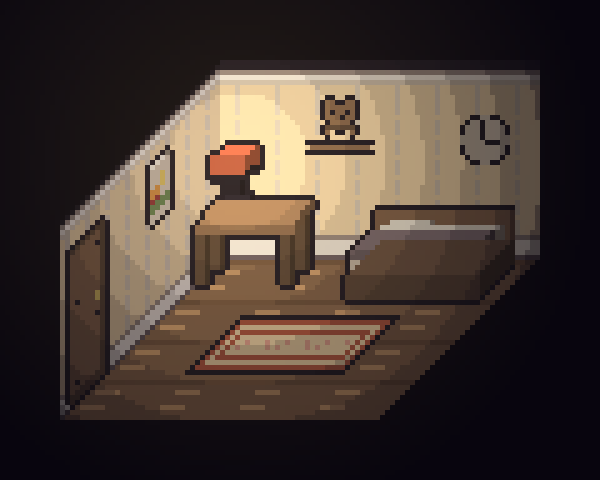
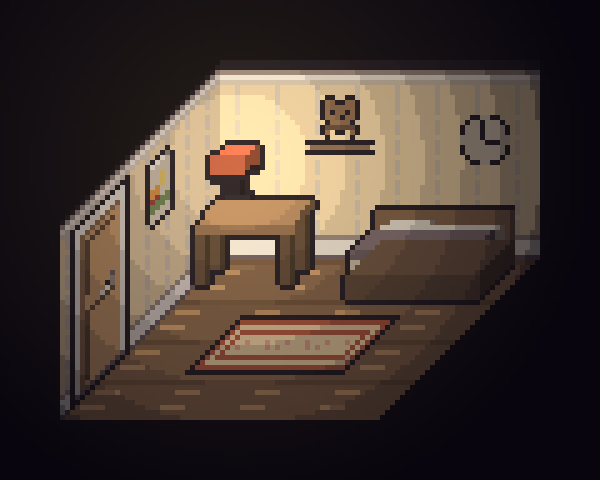
Child room: designed door (white frame, wood leaf, 2 panels, lever), pre-sheared for left wall
Claude-Session: https://claude.ai/code/session_01FPZSaKiVNU2zED737yZX4w

Changed region(s): [[0.09, 0.375, 0.24, 0.8438]]

diff --git a/tools/render_room.py b/tools/render_room.py
@@ -70,6 +70,14 @@ def render_room(path, scale=1):
     # 왼쪽 벽의 사물: 세로 선은 그대로, 깊이 방향은 SK 배로 눌리고 SS 만큼 올라가는 기울임
     for tok in extra.get('left_add', '').split():
         nm, at = tok.split('@'); dc, _, lift = at.partition('^'); d0 = int(float(dc) * T); sp = lib[nm]
+        if nm.endswith('_ls'):                                    # 왼쪽 벽 면에 맞춰 미리 눌러 그린 스프라이트: 가로는 그대로, 한 칸 갈 때마다 1점씩 올라가는 기울임만 준다
+            for u in range(sp.width):
+                for v in range(sp.height):
+                    p = sp.getpixel((u, v))
+                    if p[3] == 0: continue
+                    X = int(X0 + SK * d0 + u); Y = int(Y0 - SS * d0 - u * SS / SK - int(lift or 0) - (sp.height - 1 - v)) - 1
+                    if 0 <= X < CW and 0 <= Y < CH: px[X, Y] = (int(p[0] * .85), int(p[1] * .85), int(p[2] * .88), 255)
+            continue
         painted = {}
         for u in range(sp.width):
             for v in range(sp.height):
